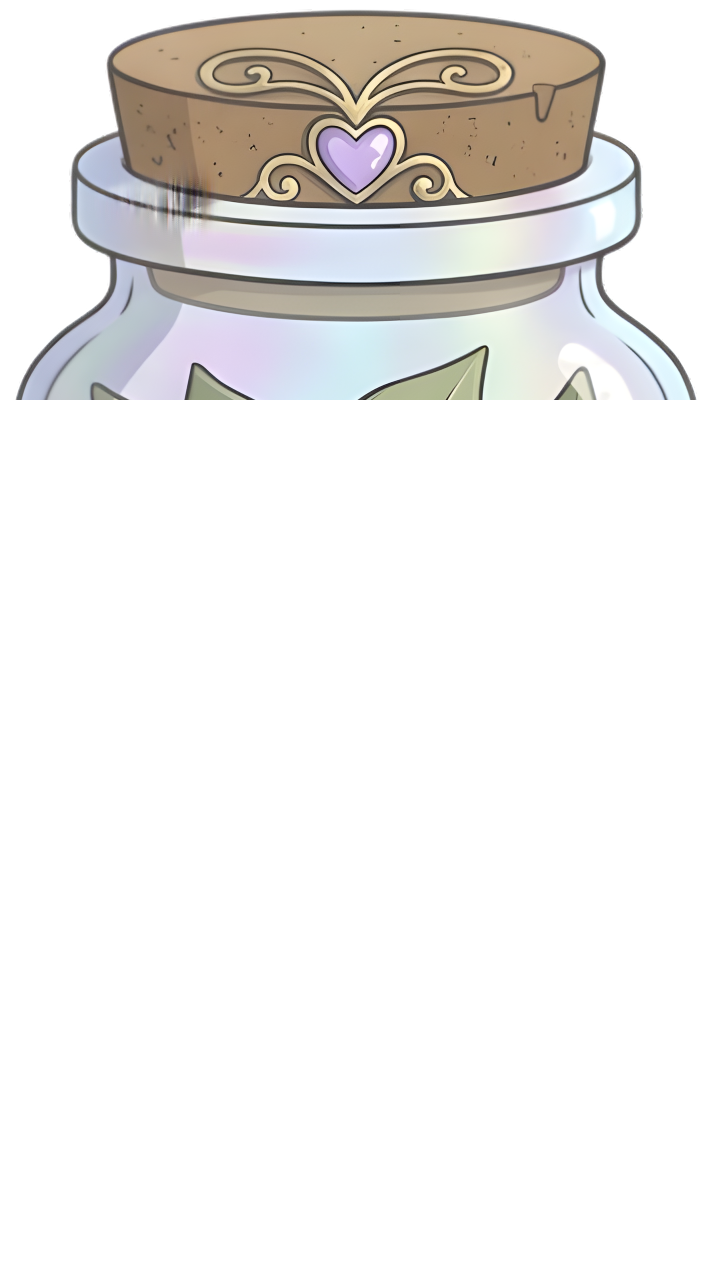
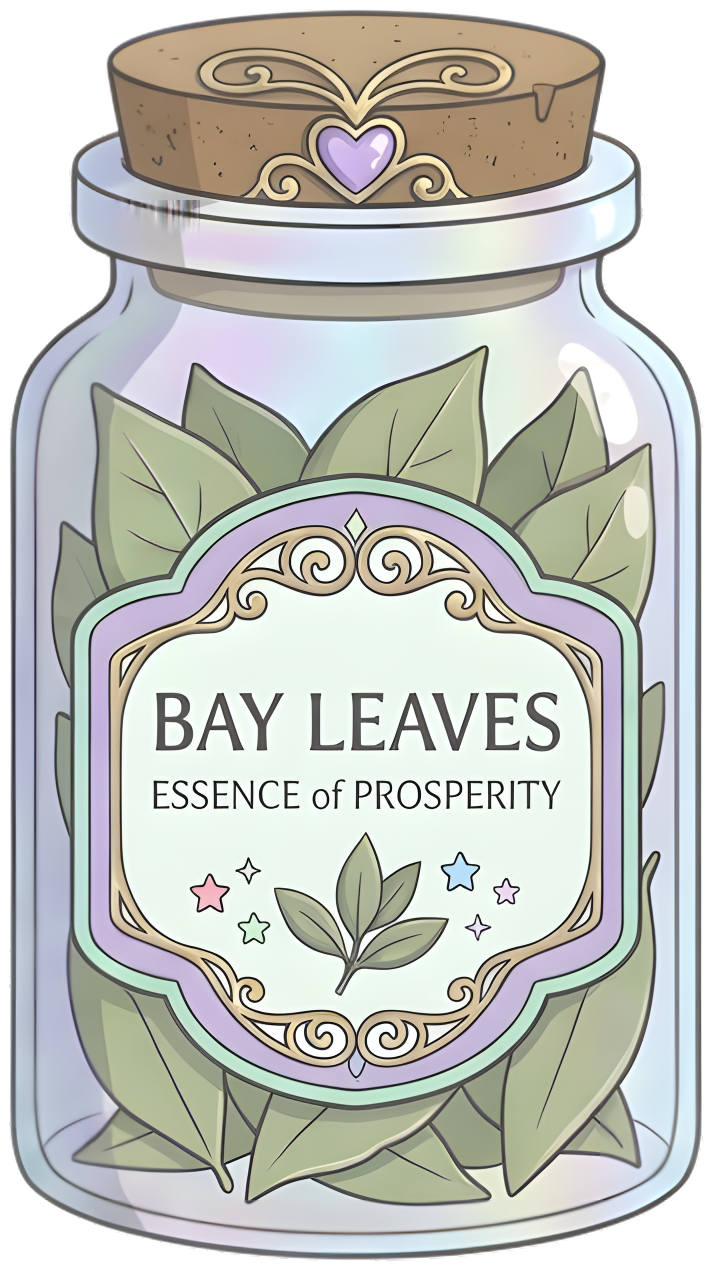
Two size tables: the cupboards keep things large enough to tell apart (the symbols cupboards now 1.6x and the symbols back to readable sizes), the altar shows true-to-life sizes (a sugar sachet small beside a bottle, a flour bag big); the bay leaf picture redone (its upscale had come out cut off)

diff --git a/js/config.js b/js/config.js
@@ -25,6 +25,25 @@ const ITEM_SIZE_BY_SHELF = {
   "Pantry: salts, sugars & baking":0.65,"Resins & incense":0.6,"Crystals":0.42,"Animal gifts":0.7,
   "Wood & branches":0.6,"Buttons":0.3,"Findings & tools":0.4
 };
+/* How tall each thing really is, for the altar, where things stand side by side and must look true to life (1 = a 20 cm
+   potion bottle): a sachet of sugar is small beside a bottle, a jar of herbs is about a hand tall, a bag of flour is big.
+   Gems never go below 0.3 so they can still be seen. A thing not listed takes its shelf's size. The cupboards do not use
+   this: there everything is drawn large enough to tell apart (ITEM_SIZE below). */
+const REAL_SIZE_BY_SHELF = {
+  "Base waters":0.9,"Oils, butters & waxes":0.7,"Herbs & flowers":0.62,"Fruits":0.6,"Spices":0.5,
+  "Pantry: salts, sugars & baking":0.5,"Resins & incense":0.5,"Crystals":0.3,"Animal gifts":0.6,
+  "Wood & branches":0.9,"Buttons":0.45,"Findings & tools":0.5
+};
+const REAL_SIZE = {
+  "Butter":0.28,"Shea butter":0.4,"Beeswax":0.45,"Almond oil":0.7,"Jojoba oil":0.7,"Olive oil":0.9,"Sunflower oil":0.9,
+  "Brown sugar":0.42,"Vanilla":0.4,"Raisins":0.45,"Sugar":0.45,"Baking soda":0.5,"Rice flour":0.7,"Flour":0.85,"Garden soil":0.9,
+  "Epsom salt":0.6,"Milk":0.95,"Coconut milk powder":0.5,"Cocoa":0.5,"Milk powder":0.5,"Oats":0.55,"Chocolate chips":0.55,
+  "Honey":0.45,"Gold sprinkles":0.4,"Pink sprinkles":0.45,"Rainbow sprinkles":0.45,"Gold mica":0.4,"Silver mica":0.4,
+  "Silver glitter":0.4,"Pink glitter":0.4,"Biodegradable glitter":0.4,"Rose clay":0.45,"Eggshell":0.45,"Hearth ash":0.45,
+  "Soap base":0.28,"Soap base (charcoal)":0.28,"Saffron":0.38,"Sandalwood":0.45,"Peacock feather":0.75,"Seashell":0.55,
+  "Selenite":0.38,"Beetroot powder":0.55,"Apple":0.55,
+  "Acorn":0.55,"Ash wood":0.8,"Birch wood":0.8,"Small key":0.6,"Coin":0.45,"Glass bead":0.45
+};
 const ITEM_SIZE = {
   "Almond oil":0.8,"Jojoba oil":0.85,"Olive oil":0.95,"Sunflower oil":0.95,"Butter":0.3,"Shea butter":0.45,
   "Beeswax":0.55,"Baking soda":0.6,"Black salt":0.7,"Brown sugar":0.6,"Chocolate chips":0.75,"Cocoa":0.7,"Coconut milk powder":0.6,
@@ -39,10 +58,10 @@ const ITEM_SIZE = {
   "Bee pollen":0.65,"Swan down":0.65,"Pearl":0.3,"River stone":0.35,"Selenite":0.5,"Clear quartz":0.48,
   "Black tourmaline":0.48,"Smoky quartz":0.48,"Rose quartz":0.48,"Hematite":0.46,"Rhodonite":0.46,"Pyrite":0.46,
   "Sunstone":0.48,"Malachite":0.46,"Obsidian":0.46,
-  /* the "symbols" pictures: a jar of acorns, branch bundles (about 30 cm), wood bundles, buttons on hanging cards, a pouch of coins, jars and cards of findings */
-  "Acorn":0.62,"Ash branch":0.95,"Birch branch":0.95,"Blackthorn branch":0.9,"Hazel branch":0.95,"Ash wood":0.8,"Birch wood":0.8,
-  "Brass button":0.55,"Bright buttons":0.55,"Gold button":0.55,"Heart-shaped button":0.55,"Mismatched button":0.55,"Vintage button":0.55,
-  "Coin":0.55,"Glass bead":0.55,"Iron filings":0.6,"Iron nail":0.6,"Iron pin":0.55,"Small key":0.68
+  /* the "symbols" pictures, sized to read easily in their cupboards */
+  "Acorn":0.7,"Ash branch":0.95,"Birch branch":0.95,"Blackthorn branch":0.9,"Hazel branch":0.95,"Ash wood":0.8,"Birch wood":0.8,
+  "Brass button":0.7,"Bright buttons":0.7,"Gold button":0.7,"Heart-shaped button":0.7,"Mismatched button":0.7,"Vintage button":0.7,
+  "Coin":0.7,"Glass bead":0.7,"Iron filings":0.7,"Iron nail":0.7,"Iron pin":0.7,"Small key":0.75
 };
 const SHELF_CATEGORIES = ['Base waters', 'Oils, butters & waxes'];
 const ASSETS = {

diff --git a/js/scene.js b/js/scene.js
@@ -196,7 +196,8 @@ function renderShelves(){
   const edges=()=>{const more=ins.scrollHeight-ins.clientHeight-ins.scrollTop;box.classList.toggle('moreup',ins.scrollTop>2);box.classList.toggle('moredown',more>2)};
   ins.addEventListener('scroll',edges,{passive:true});ins.addEventListener('load',edges,true);edges()}
 /* how tall an ingredient stands (ITEM_SIZE in config.js) */
-const sizeOf=n=>ITEM_SIZE[n]??ITEM_SIZE_BY_SHELF[ITEM[n]?.c]??.7;
+const sizeOf=n=>ITEM_SIZE[n]??ITEM_SIZE_BY_SHELF[ITEM[n]?.c]??.7;  /* in the cupboards */
+const realOf=n=>REAL_SIZE[n]??REAL_SIZE_BY_SHELF[ITEM[n]?.c]??.6;  /* on the altar: true to life */
 function shelfItemsHTML(c){
   if(c==='Candles')return Object.keys(D.colours).map(k=>ASSETS.candles[k]?`<button class="chip jar ${S.candle===k?'on':''}" data-candle="${esc(k)}" title="${esc(k)} candle" aria-label="${esc(k)} candle" aria-pressed="${S.candle===k}"><span class="bot"><img src="${ASSETS.candles[k]}" alt="" loading="lazy" style="--h:.8"></span></button>`
     :`<button class="swatch ${S.candle===k?'on':''}" style="background:${COLOURHEX[k]}" data-candle="${esc(k)}" title="${esc(k)} candle" aria-label="${esc(k)} candle" aria-pressed="${S.candle===k}"></button>`).join('');
@@ -219,8 +220,8 @@ function renderAltar(){
   /* what is laid out stands on the table; tap a thing to put it back */
   /* five or more stand in two rows: the smaller things in front, the bigger ones a step further back on the table (higher,
      a little smaller, a little darker), so seven big things still fit between the phone and the bell */
-  const plate=n=>`<button class="ontable" data-item="${esc(n)}" title="${esc(n)}: put it back" aria-label="Put ${esc(n)} back">${ASSETS.items[n]?`<img src="${ASSETS.items[n]}" alt="" style="--h:${sizeOf(n)}">`:`<i class="minijar"></i><span class="nm">${esc(n)}</span>`}</button>`;
-  const A=S.altar,two=A.length>=5,bySize=[...A].sort((a,b)=>sizeOf(a)-sizeOf(b)),nf=A.length-Math.floor(A.length/2),
+  const plate=n=>`<button class="ontable" data-item="${esc(n)}" title="${esc(n)}: put it back" aria-label="Put ${esc(n)} back">${ASSETS.items[n]?`<img src="${ASSETS.items[n]}" alt="" style="--h:${realOf(n)}">`:`<i class="minijar"></i><span class="nm">${esc(n)}</span>`}</button>`;
+  const A=S.altar,two=A.length>=5,bySize=[...A].sort((a,b)=>realOf(a)-realOf(b)),nf=A.length-Math.floor(A.length/2),
     front=two?A.filter(n=>bySize.indexOf(n)<nf):A,back=two?A.filter(n=>bySize.indexOf(n)>=nf):[];
   $('#plates').innerHTML=back.length?`<div class="prow back">${back.map(plate).join('')}</div><div class="prow front">${front.map(plate).join('')}</div>`:front.map(plate).join('');
   /* the candle stand is always on the altar; a chosen candle stands in its cup, behind the cup's front lip (a second copy

diff --git a/css/style.css b/css/style.css
@@ -455,6 +455,7 @@ button.small{font-size:12px;padding:2px 10px}
 .shelfopen[data-shelf^="Pantry"] .cabinside{--big:1.45}
 .shelfopen[data-shelf^="Oils"] .cabinside{--big:1.45}  /* the oil shelf a little larger than the waters */
 .shelfopen[data-shelf="Herbs & flowers"] .cabinside{--big:1.8}
+.shelfopen:is([data-shelf="Wood & branches"],[data-shelf="Buttons"],[data-shelf="Findings & tools"]) .cabinside{--big:1.6}  /* the symbols cupboards, easy to tell apart */
 /* herbs: always four to a row, each jar in a quarter of the cupboard (smaller on a narrow screen rather than fewer to a row) */
 .shelfopen[data-shelf="Herbs & flowers"] .chips{display:grid;grid-template-columns:repeat(4,minmax(0,1fr));gap:10px 6px;justify-items:center;align-items:end;padding-inline:5%}  /* the side padding draws the four columns a little closer together */
 .shelfopen[data-shelf="Herbs & flowers"] .chip.jar{min-width:0;width:100%}

diff --git a/DESIGN_NOTES.md b/DESIGN_NOTES.md
@@ -36,6 +36,7 @@ A cozy witch-shop deduction game. Customers describe a need (never the recipe na
 - Week-one orders always say what kind of thing they want (a charm, something to spread on toast = butter, something to look into = hand mirror, and so on).
 - **Every order is made while the customer waits.** Nobody says they'll come back for it: each visit is placed on a day and hour when its recipe can be made, a regular's visits keep their story order, nobody comes twice in a day, and no order brings 5 or more new parts. A few hours are shared with a walk-in. In week one Edmund comes at Nightfall, Goldie on Wednesday at Noon, and Morwenna's first order is The Tidal Heart (made with the sea water she brings); Wayfarer's Ward (Wednesday · Twilight) is her Day 19 visit, a Wednesday. There is no button to start an order.
 - **Making and giving**: at the altar, ringing the **silver bell** on the table (the designer's altar bell, assets/scene/altar-bell.png, between what is laid out and the card) makes the order; it glows faintly when everything is ready, rings out (heard) and then slides the view back up to the counter, where it waits as a wrapped parcel (pink ribbon, a handwritten tag with the recipe name) between the till and the notebook. Clicking the parcel hands it over.
+- **Sizes: cupboards vs the altar**: two size tables. In a cupboard everything is drawn large enough to tell apart (ITEM_SIZE, with each cupboard's own enlargement; the Wood & branches, Buttons and Findings & tools cupboards 1.6×). On the altar things stand true to life beside each other (REAL_SIZE, 1 = a 20 cm potion bottle): a sachet of brown sugar is small beside a bottle of water, a jar of herbs is about a hand tall, a bag of flour is big; gems never below 0.3 so they can be seen. On the altar nothing else shrinks them.
 - **Cupboards**: an open cupboard shows its things large enough to tell apart (56% of the room wide; things 1.3× their old size, herbs 1.8× and always four to a row, fruit, spices, resins and critters 1.6×, the pantry and oils 1.45×, candles 1.08×; bottles on the water and oil shelves centred, each row as tall as what stands in it, short wide things (butter, beeswax) at least 0.62 of a bottle in the cupboard; 72% for the tarot cards), and always starts below the ceiling. Its things stand against the cupboard's own wooden back (assets/scene/cabinet-back.jpg, the middle of the designer's cupboard picture, upscaled), with no shelf planks drawn, framed by the cupboard picture's own wooden edges, with no title and nothing between the frame and the back. Bottled waters show how many are left as a pink badge on the bottle's shoulder, like the unread count on the computer. Things with a picture show no name label (the picture says what it is; hovering shows the name); only things without a picture yet are labelled. The same on the table. Making again before giving replaces it; it goes if the customer leaves.
 - "I don't know how to make this" needs a second tap.
 - **Popups**: every popup (books, diary, email, receipts, the end of the day, the new-email card, an open cupboard, a result at the counter) sits in the middle of the screen and closes when you click outside it (or with Esc), so none of them has a Close or × button. Only the tutorial note keeps its ×, since it is not a popup. Clicking outside the end-of-day summary goes on to the next day, as its button does.
